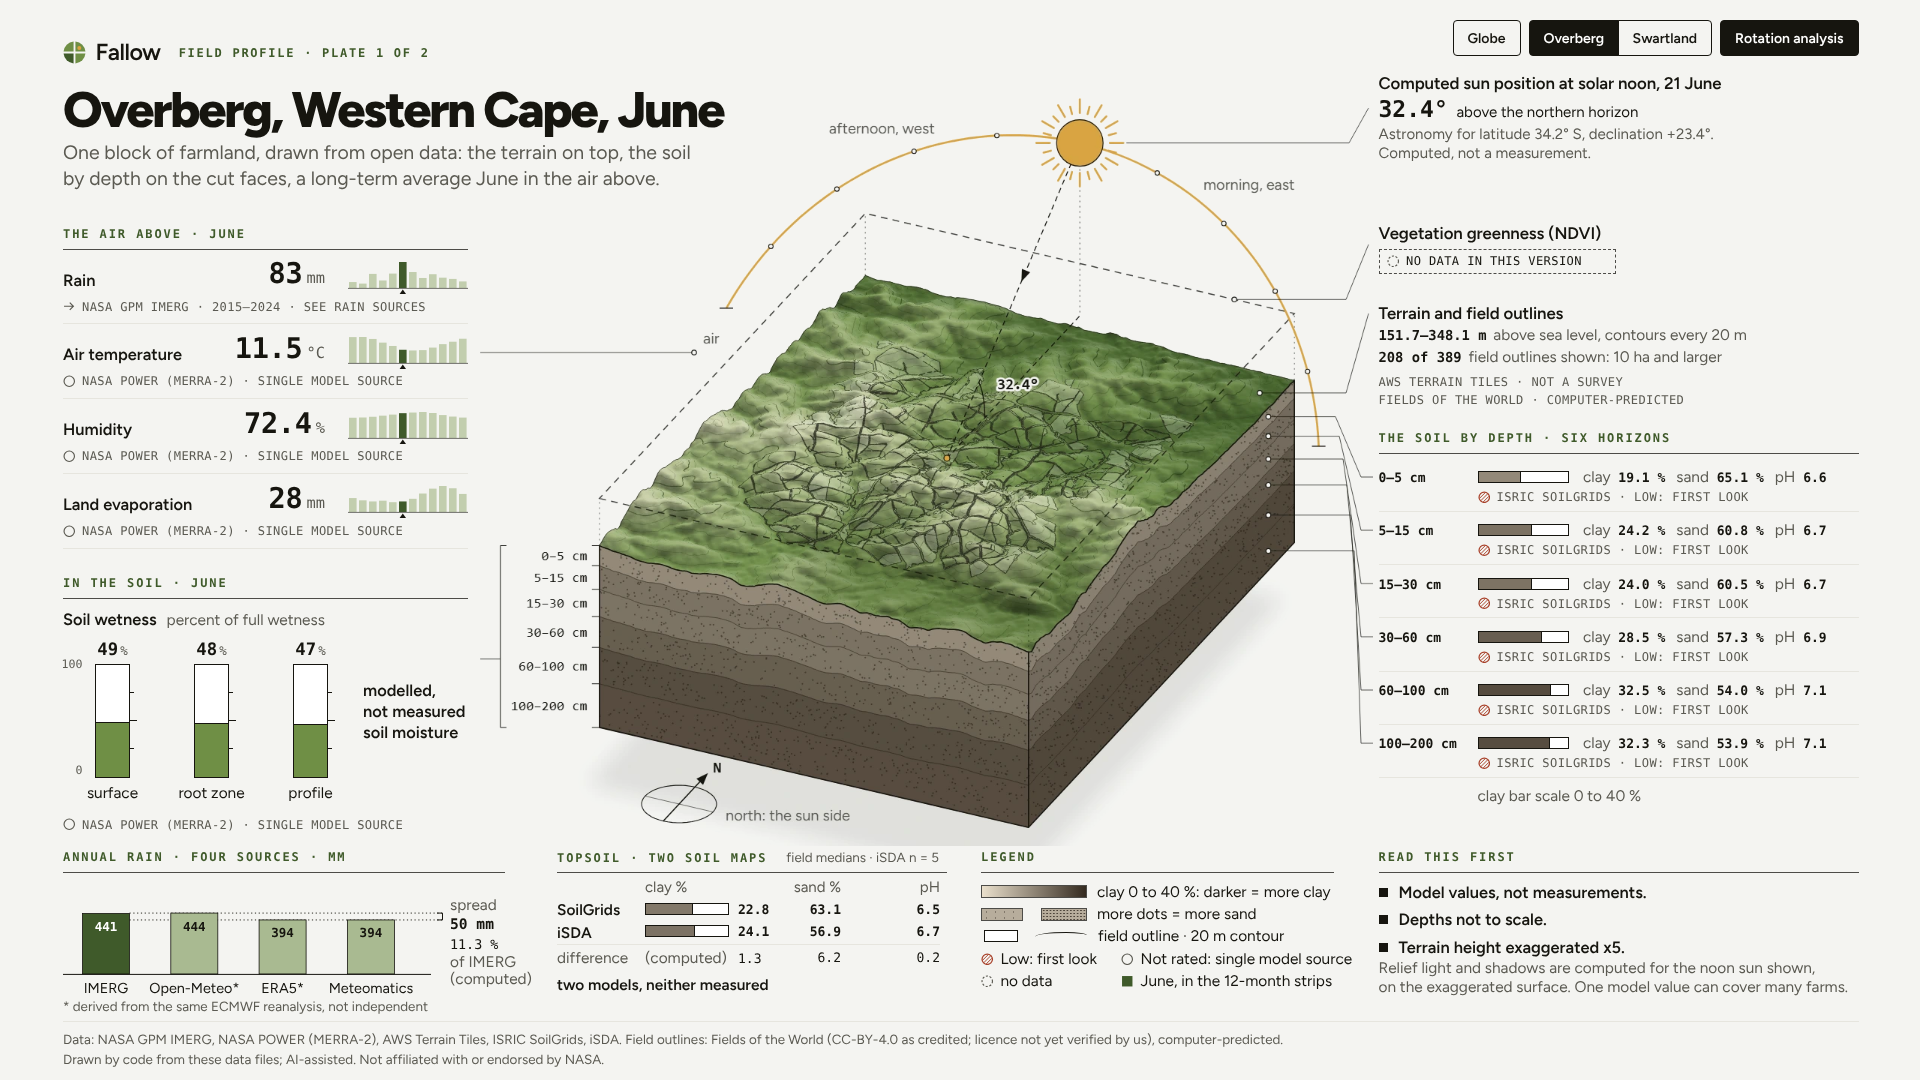
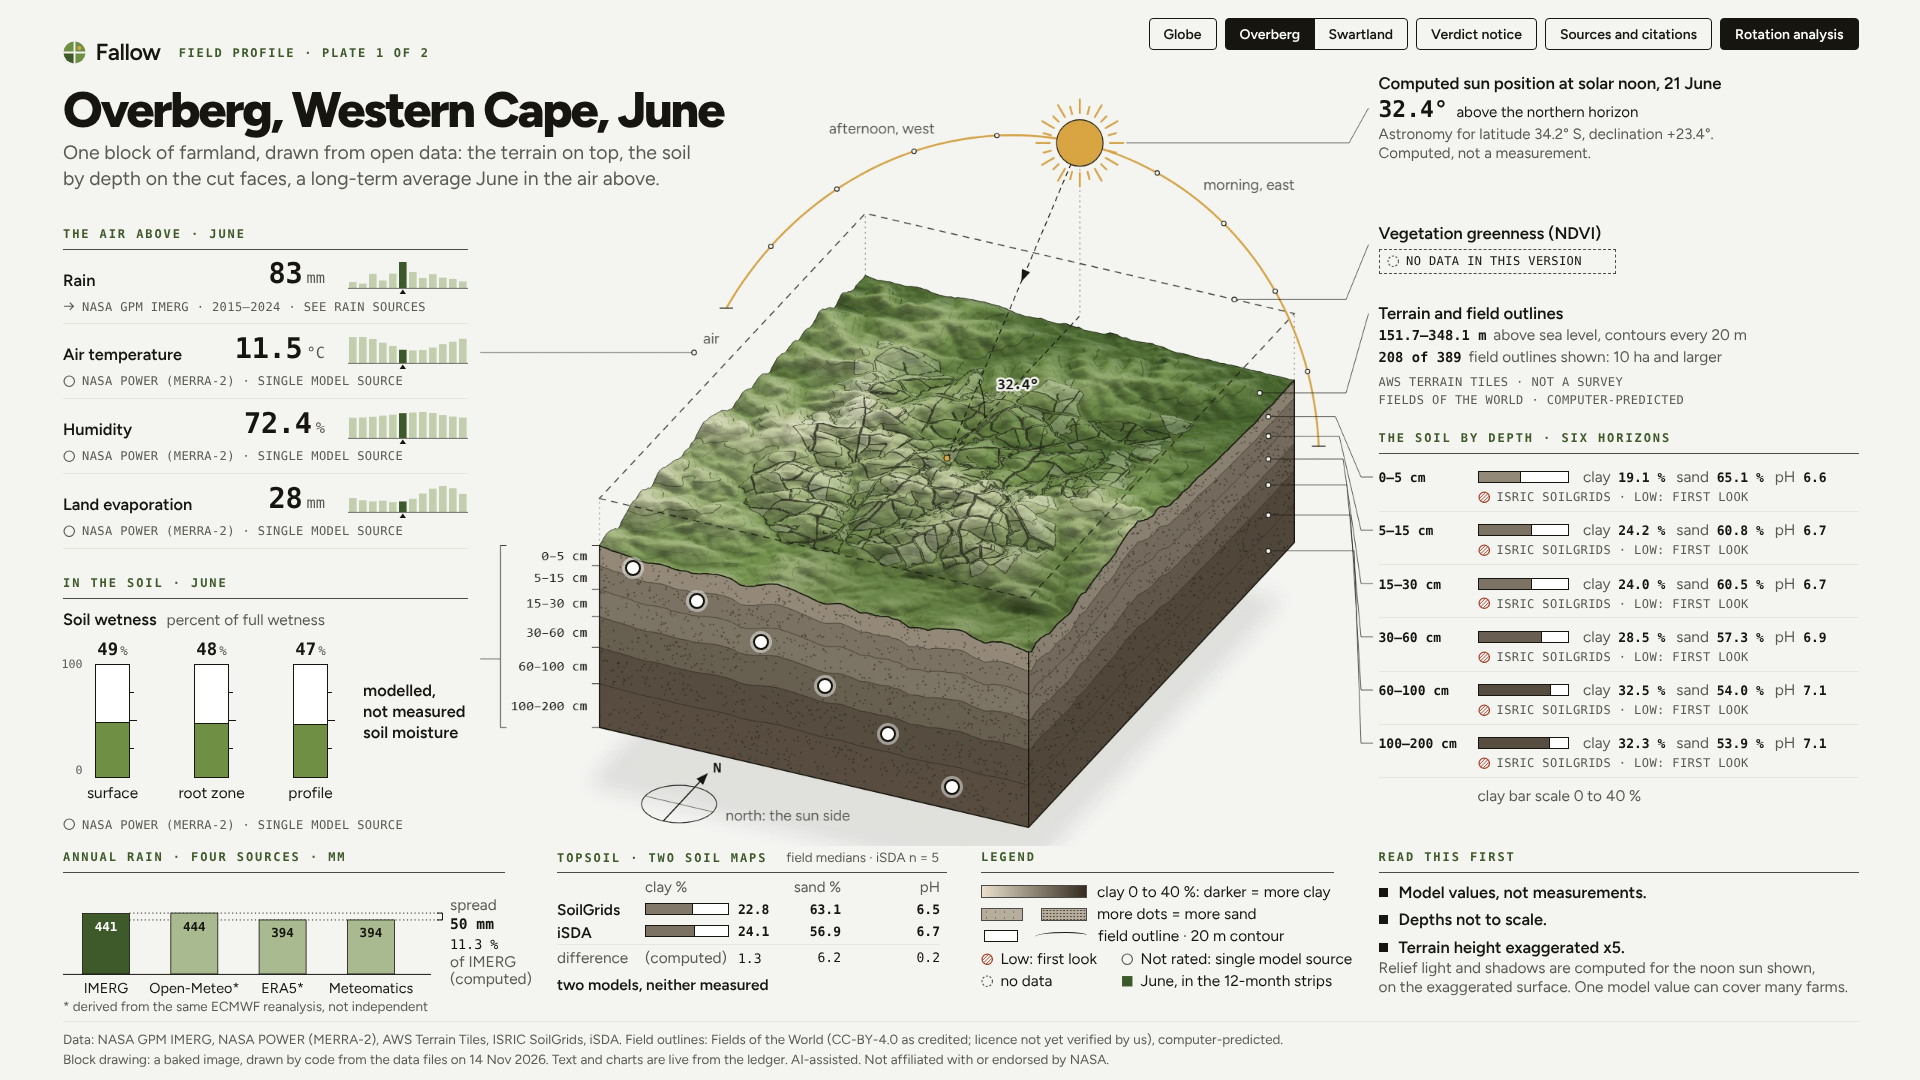
Fix class collision on the plate, inspector placement, toolbar scaling; add interaction screenshots
Claude-Session: https://claude.ai/code/session_01VeY2RKnVyyvJtUDXrszmzB

diff --git a/app/interact.css b/app/interact.css
@@ -48,7 +48,7 @@ dialog.sheet::backdrop { background: rgba(22, 21, 15, 0.38); animation: fade-in 
 .btn-quiet:hover { background: var(--ink); color: var(--white); border-color: var(--ink); }
 
 /* ---------- mode switcher ---------- */
-.plain { display: grid; gap: 12px; padding: var(--sp-2) 0 var(--sp-1); }
+.side-plain { display: grid; gap: 12px; padding: var(--sp-2) 0 var(--sp-1); }
 .modes { display: grid; gap: var(--sp-2); padding-top: var(--sp-2); }
 .seg { display: grid; grid-template-columns: repeat(4, minmax(0, 1fr)); gap: 4px; padding: 4px; background: var(--paper-2); border-radius: var(--radius-m); }
 .seg-btn {
@@ -85,12 +85,13 @@ dialog.sheet::backdrop { background: rgba(22, 21, 15, 0.38); animation: fade-in 
 }
 .hotspot:hover i { transform: scale(1.25); }
 .hotspot[aria-pressed="true"] i { background: var(--sun); transform: scale(1.35); }
-.hotspot:focus-visible { outline: 2px solid var(--white); outline-offset: -8px; box-shadow: inset 0 0 0 5px var(--ink); }
+.hotspot:focus-visible { outline: none; }
+.hotspot:focus-visible i { box-shadow: 0 0 0 3px var(--white), 0 0 0 5px var(--ink); }
 .inspector {
-  pointer-events: auto; position: absolute; left: 0; top: 33%; width: max(232px, calc(300 * var(--u, 1px)));
+  pointer-events: auto; position: absolute; right: 0; bottom: 0; width: max(204px, calc(284 * var(--u, 1px)));
   padding: var(--sp-2); border-radius: var(--radius-m); background: var(--sheet-bg);
   box-shadow: 0 12px 32px rgba(22, 21, 15, 0.18), 0 0 0 1px var(--hairline);
-  font-size: max(12px, calc(14.5 * var(--u, 1px))); line-height: 1.4;
+  font-size: max(11.5px, calc(14.5 * var(--u, 1px))); line-height: 1.4;
 }
 .inspector:not([hidden]) { animation: sheet-in 260ms var(--spring); }
 .insp { display: grid; gap: var(--sp-1); }
@@ -100,6 +101,12 @@ dialog.sheet::backdrop { background: rgba(22, 21, 15, 0.38); animation: fade-in 
 .insp dd { margin: 0; font-family: var(--mono); font-weight: 700; }
 .insp-src { color: var(--soft); font-size: 0.9em; }
 .inspector-close { position: absolute; right: 4px; top: 4px; background: transparent; }
+
+/* The toolbar scales with the plate so six controls never cover the title. */
+@media (min-width: 1100px) and (min-height: 600px) {
+  .toolbar { gap: clamp(4px, calc(8 * var(--u)), 8px); }
+  .toolbar .btn { font-size: clamp(11px, calc(14 * var(--u)), 14px); padding: 0 clamp(7px, calc(14 * var(--u)), 14px); }
+}
 
 /* ---------- stacked layout and phones ---------- */
 @media (max-width: 1099px), (max-height: 599px) {
@@ -116,6 +123,8 @@ dialog.sheet::backdrop { background: rgba(22, 21, 15, 0.38); animation: fade-in 
   .sheet-head::before { content: ""; position: absolute; left: 50%; top: 8px; width: 36px; height: 5px; margin-left: -18px; border-radius: 3px; background: rgba(22, 21, 15, 0.2); }
   .sheet-body { padding: var(--sp-2); }
   .mode-card { flex-wrap: wrap; }
+  .plate .label { white-space: normal; flex-wrap: wrap; height: auto; padding-bottom: 4px; }
+  .label-note { display: block; margin-left: 0; }
 }
 @media (prefers-reduced-motion: reduce) {
   dialog.sheet[open], dialog.sheet::backdrop, .mode-panel:not([hidden]), .inspector:not([hidden]) { animation: none; }

diff --git a/components/plate/BlockFigure.tsx b/components/plate/BlockFigure.tsx
@@ -8,8 +8,10 @@ import SoilHotspots from "./SoilHotspots";
  *  width and height. Hand-placed on the front cut face, stepped along the
  *  layers so the touch targets do not overlap. Markers, not measurements. */
 const HOTSPOTS: readonly (readonly [number, number])[] = [
-  [17.8, 63.9], [24.9, 68.6], [32, 73.8], [39, 79.5], [46, 85.6], [53.1, 92.4],
+  [17.8, 64.3], [24.9, 68.6], [32, 73.8], [39, 79.5], [46, 85.6], [53.1, 92.4],
 ];
+/** The Swartland block sits a little lower in its image. */
+const HOTSPOT_DY: Record<SiteId, number> = { overberg: 0, swartland: 1.4 };
 
 /** The centre of the plate: the baked block drawing. */
 export function BlockArt({ site }: { site: SiteId }) {
@@ -38,7 +40,7 @@ export function BlockArt({ site }: { site: SiteId }) {
         return {
           depth: d.replace("-", "–"),
           x: HOTSPOTS[i][0],
-          y: HOTSPOTS[i][1],
+          y: HOTSPOTS[i][1] + HOTSPOT_DY[site],
           panel: (
             <div className="insp">
               <p className="part-kicker">Soil layer</p>
@@ -49,7 +51,7 @@ export function BlockArt({ site }: { site: SiteId }) {
                 <div><dt>pH in water</dt><dd><N id={ph} /></dd></div>
               </dl>
               <p className="insp-src"><Led ids={clay}>Source: {r.source}, {r.resolution}, {r.period}.</Led><RowTag id={clay} /></p>
-              <p className="insp-src"><Led ids={clay}>{r.caveat}</Led></p>
+              <p className="insp-src"><Led ids={clay}>Modelled, not measured. {r.confidence}.</Led> The same values are in the soil by depth table.</p>
             </div>
           ),
         };

diff --git a/components/side/SideModes.tsx b/components/side/SideModes.tsx
@@ -44,7 +44,11 @@ export default function SideModes({ modes }: { modes: Mode[] }) {
     const fromHash = () => {
       const h = window.location.hash.slice(1);
       const m = list.current.find((x) => x.id === h || x.alias?.includes(h));
-      if (m) setMode(m.id);
+      if (!m) return;
+      setMode(m.id);
+      // An anchor inside a mode (for example #trust) opens its own part too.
+      const el = document.getElementById(h);
+      if (el instanceof HTMLDetailsElement) el.open = true;
     };
     fromHash();
     const onKey = (e: KeyboardEvent) => {

diff --git a/components/side/Sidebar.tsx b/components/side/Sidebar.tsx
@@ -34,7 +34,7 @@ export default function Sidebar({ site }: { site: SiteId }) {
         </p>
       </header>
 
-      <section className="plain" id="answer" aria-label="Plain answer">
+      <section className="side-plain" id="answer" aria-label="Plain answer">
         <Answer site={site} />
         <OutlinePicker site={site} />
       </section>
